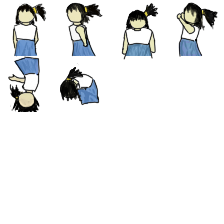
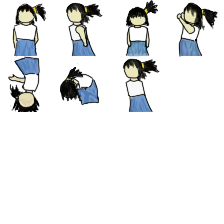
no-arm run sprite for sword swipes

Changed region(s): [[0.5312, 0.0, 0.7188, 0.5]]

diff --git a/core/src/com/ld/game/MapRenderer.java b/core/src/com/ld/game/MapRenderer.java
@@ -38,7 +38,7 @@ public class MapRenderer {
     Texture checkpointImg;
     Texture signImg;
     TextureRegion imgRegion;
-    TextureRegion playerStand, playerRun, playerPrejump, playerClimb, playerCyclone, playerTwist;
+    TextureRegion playerSprites[][];
     
     Sound weaponSound;
   
@@ -62,19 +62,14 @@ public class MapRenderer {
         playerImg = new Texture("samurai.png");
         sageImg = new Texture("sage.png");
         swordImg = new Texture("sword_arm.png");
-        
-        playerStand = new TextureRegion(playerImg, 8, 0,
-        		Player.PLAYER_WIDTH, Player.PLAYER_HEIGHT);
-        playerRun = new TextureRegion(playerImg, playerImg.getWidth() / 4 + 8, 0,
-        		Player.PLAYER_WIDTH, Player.PLAYER_HEIGHT);
-        playerPrejump = new TextureRegion(playerImg, 2 * playerImg.getWidth() / 4 + 8, 0,
-        		Player.PLAYER_WIDTH, Player.PLAYER_HEIGHT);
-        playerClimb = new TextureRegion(playerImg, 3 * playerImg.getWidth() / 4 + 8, 0,
-        		Player.PLAYER_WIDTH, Player.PLAYER_HEIGHT);
-        playerTwist = new TextureRegion(playerImg, 8, playerImg.getHeight()/4,
-        		Player.PLAYER_WIDTH, Player.PLAYER_HEIGHT);
-        playerCyclone = new TextureRegion(playerImg, playerImg.getWidth() / 4 + 8, playerImg.getHeight()/4,
-        		Player.PLAYER_WIDTH, Player.PLAYER_HEIGHT);
+
+        playerSprites = new TextureRegion[4][4];
+        for (int i = 0; i < 4; ++i) {
+        	for (int j = 0; j < 4; ++j) {
+        		playerSprites[i][j] = new TextureRegion(playerImg, 8 + j * playerImg.getWidth() / 4, i * playerImg.getHeight() / 4,
+                		Player.PLAYER_WIDTH, Player.PLAYER_HEIGHT);
+        	}
+        }
         
         dialogBatch = new SpriteBatch();
         sageFont = new BitmapFont();
@@ -119,22 +114,25 @@ public class MapRenderer {
     
     private TextureRegion determinePlayerTexture(){
     	if (map.player.getPlayerFrame() == PlayerFrame.RUN) {
-        	return playerRun;
+        	return playerSprites[0][1];
+        }
+    	if (map.player.getPlayerFrame() == PlayerFrame.RUN_NOARMS) {
+        	return playerSprites[1][2];
         }
         else if (map.player.getPlayerFrame() == PlayerFrame.PREJUMP) {
-        	return playerPrejump;
+        	return playerSprites[0][2];
         }
         else if (map.player.getPlayerFrame() == PlayerFrame.CLIMB) {
-        	return playerClimb;
+        	return playerSprites[0][3];
         }
         else if (map.player.getPlayerFrame() == PlayerFrame.TWIST) {
-        	return playerTwist;
+        	return playerSprites[1][0];
         }
         else if (map.player.getPlayerFrame() == PlayerFrame.CYCLONE) {
-        	return playerCyclone;
+        	return playerSprites[1][1];
         }
         else {
-            return playerStand;
+            return playerSprites[0][0];
         }
     }
     

diff --git a/core/src/com/ld/game/Player.java b/core/src/com/ld/game/Player.java
@@ -27,6 +27,7 @@ enum PlayerFrame {
 	// TODO: maybe get rid of this enum
 	STAND,
 	RUN,
+	RUN_NOARMS,
 	PREJUMP,
 	CLIMB,
 	CYCLONE,
@@ -223,7 +224,7 @@ public class Player {
 					|| (!playerFacingLeft && Gdx.input.isKeyPressed(Keys.RIGHT));
 			if (isFrontKeyPressed) {
 				loadHurtboxData(AnimationType.AIR_FAIR);
-				playerFrame = PlayerFrame.RUN;
+				playerFrame = PlayerFrame.RUN_NOARMS;
 				playerSwordVisible = true;
 				playerSwordRotation = -90;
 			}
@@ -606,6 +607,7 @@ public class Player {
 				}
 			}
 			if (currentAnimationType == AnimationType.AIR_FAIR && stateFrameDuration == 11) {
+				playerFrame = PlayerFrame.STAND;
 				playerSwordVisible = false;
 			}
 			if (currentAnimationType == AnimationType.AIR_DAIR && stateFrameDuration == 20) {
